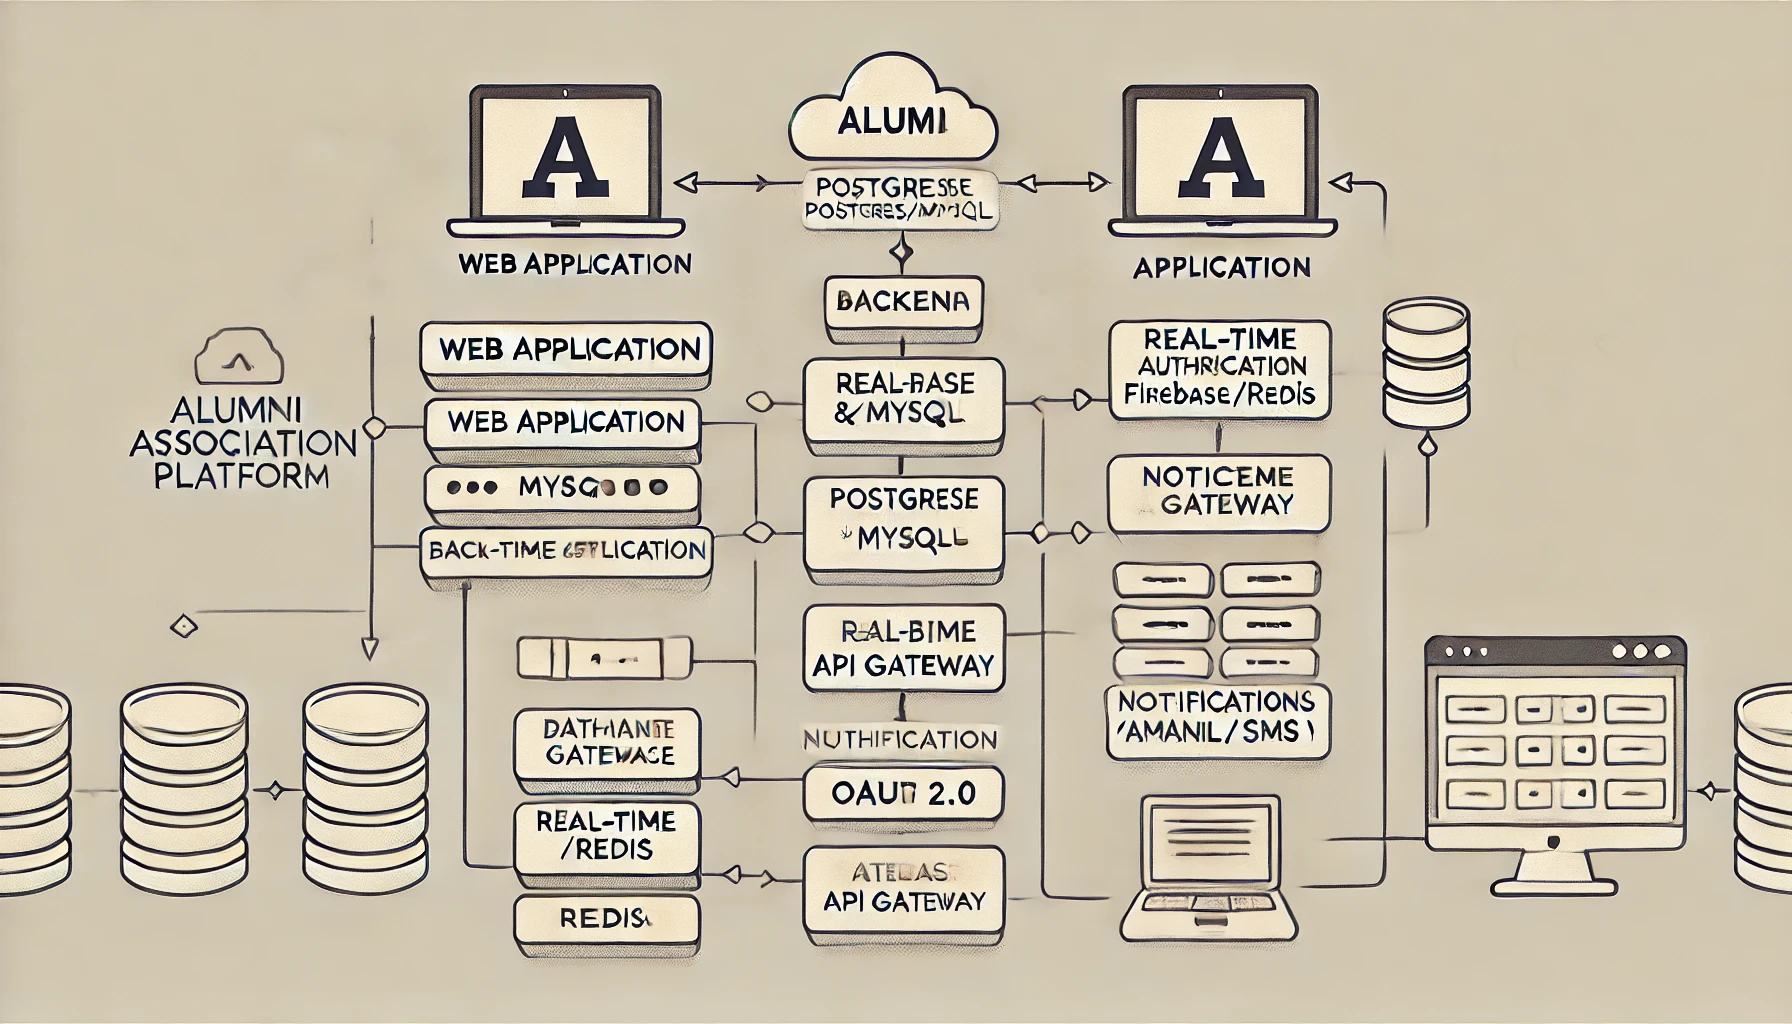
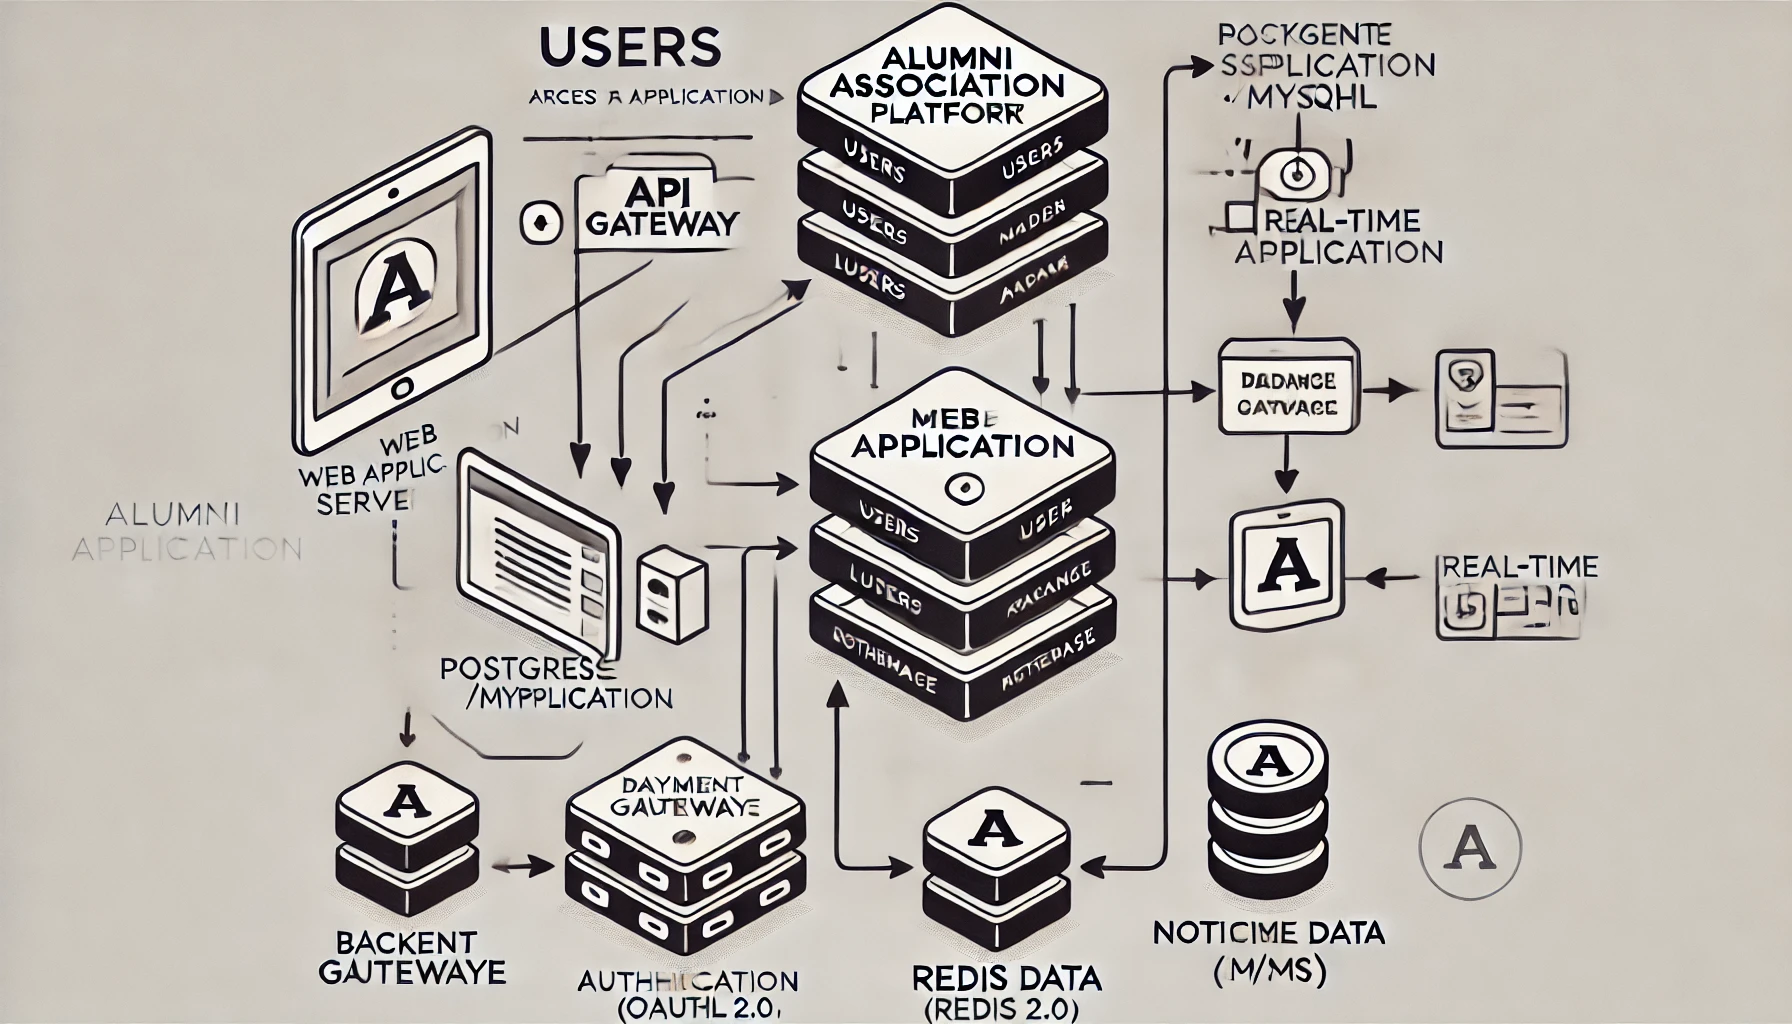
Success

diff --git a/README.md b/README.md
@@ -3,57 +3,90 @@
 ## Register Number: 24900596
 ## Name: Kishore B
 ## Problem Title
-Implementation of the Alumni Association platform for the University/Institute.
+Comprehensive Alumni Engagement Platform for Educational Institutions
 ## Problem Description
-Background: Alumni associations play a pivotal role in fostering lifelong connections between graduates and their alma mater, facilitating networking, mentorship, and philanthropic support. However, many alumni associations face challenges in maintaining engagement, facilitating donations, and providing valuable services such as job networking and tracking alumni success stories. A comprehensive Alumni Association platform for a University/Institute, encompassing both web and mobile applications, aims to address these challenges effectively. Detailed Description: The proposed Alumni Association platform for the Government Engineering College will feature robust functionalities accessible through both web and mobile applications: Alumni Registration: User-friendly registration processes on both web and mobile platforms, allowing alumni to join the association, update their profiles, and stay connected with peers and the institution. Donation Portal: Secure mechanisms on both platforms for alumni to contribute donations easily and support various initiatives and projects undertaken by the college, fostering a culture of philanthropy. Networking Hub: Dedicated sections on both platforms to connect alumni based on shared interests, professions, and geographic locations, facilitating professional networking, mentorship, and collaboration opportunities. Job Portal: Integrated job search and posting features accessible via web and mobile apps, enabling alumni to explore career opportunities, post job openings, and connect with potential employers within the alumni network. Alumni Directory: Search functionalities available on both platforms to find alumni based on different criteria such as graduation year, field of study, industry, location, etc., promoting networking and community building. Success Story Tracking: Features on both web and mobile apps to showcase and track alumni achievements, success stories, and notable contributions to society, inspiring current students and fostering pride among alumni. Events and Reunions: Announcements, registrations, and management tools available on both platforms for organizing alumni events, reunions, workshops, and professional development sessions to maintain engagement and connection. Feedback and Surveys: Channels on both web and mobile apps for alumni to provide feedback on their experiences, suggest improvements, and participate in surveys to help shape future initiatives of the association. The platform will prioritize user experience, security, and scalability across both web and mobile applications to cater to the diverse needs of the Government Engineering College's alumni community. Expected Solution: Implementation of the Alumni Association platform for the Government Engineering College, comprising both web and mobile applications, is expected to achieve several positive outcomes: Enhanced Alumni Engagement: Seamless access to networking, career opportunities, and alumni events through web and mobile apps will strengthen connections among alumni, fostering a vibrant and active community. Increased Philanthropic Support: Convenient donation processes accessible via both platforms will encourage alumni to contribute towards the college's growth and development initiatives. Career Advancement: Access to job postings, mentorship opportunities, and professional networking on mobile devices will support alumni in their career growth and advancement. Knowledge Sharing: Exchange of knowledge, experiences, and best practices facilitated through both web and mobile apps will enrich professional development and lifelong learning initiatives. Pride and Recognition: Highlighting alumni achievements and success stories on both platforms will instill pride in the alma mater and inspire current students to excel in their academic and professional pursuits. Community Building: Interactive features available on both web and mobile apps will nurture a sense of belonging and camaraderie among alumni, strengthening their bond with the institution. In summary, the Alumni Association platform for the University/Institute, integrated with both web and mobile applications, aims to create a dynamic and supportive ecosystem where alumni can connect, contribute, and thrive, thereby enriching the overall educational experience and legacy of the institution.
+Background:
+Alumni associations are a critical component of educational institutions, bridging the gap between alumni and their alma mater. These associations play a vital role in maintaining relationships, fostering professional networking, encouraging philanthropic contributions, and inspiring current students through alumni achievements. However, many institutions struggle to maintain consistent and meaningful engagement with their alumni due to outdated systems, limited resources, and lack of innovative platforms.
+
+Challenges Faced:
+1. Fragmented Communication: Many alumni lose touch with their institutions due to a lack of centralized and easily accessible platforms.
+2. Limited Networking Opportunities: Alumni struggle to connect with peers, mentors, and job opportunities that align with their interests or career goals.
+3. Inefficient Donation Systems: Without secure and transparent donation processes, alumni are hesitant to contribute to institutional growth.
+4. Poor Event Management: Organizing alumni reunions, webinars, or workshops becomes a logistical challenge without an integrated system for announcements, registrations, and feedback.
+5. Lack of Recognition: Success stories of alumni often go unnoticed, missing the opportunity to inspire current students and instill pride among graduates.
+6. Feedback Channels: Institutions struggle to gather insights and suggestions from their alumni for continuous improvement.
+
+Proposed Solution:
+The creation of a robust Alumni Association platform, accessible via both web and mobile applications, will address these challenges. The platform will:
+
+1. Provide easy and secure alumni registration and profile management.
+2. Facilitate networking with a directory, job board, and mentorship programs.
+3. Enable secure and transparent donation systems to support institutional initiatives.
+4. Showcase alumni achievements, promoting recognition and motivation.
+5. Manage events effectively with automated tools for planning, registration, and reminders.
+6. Incorporate feedback mechanisms for continuous development and engagement strategies.
+
+Impact:
+By addressing these challenges, the platform will:
+
+1. Strengthen alumni relationships and increase their participation in institutional growth.
+2. Enhance career opportunities for alumni through mentorship and job connections.
+3. Encourage a culture of giving back to the institution, driving financial support for various initiatives.
+4. Build a vibrant and engaged alumni community that contributes to the legacy and future success of the institution. 
 ## Problem Creater's Organization
-Government of Gujarat
+Ministry of Education, Government of India
 
 ## Idea
-To build a comprehensive Alumni Association platform that bridges the gap between alumni and their alma mater through seamless web and mobile solutions, fostering networking, philanthropy, career advancement, and community building.
+Create a dynamic and scalable Alumni Association platform that strengthens the bond between alumni and their alma mater. The platform will serve as a one-stop solution for networking, mentorship, donations, event participation, and showcasing alumni achievements through web and mobile applications.
 
 ## Proposed Solution / Architecture Diagram
 ![alt text](image.webp)
 
 Solution:
-1. Frontend: User-friendly interfaces for web (React.js/Angular) and mobile (Flutter/React Native).
-2. Backend: Centralized database and APIs built using Node.js/Python (Django/Flask) for handling alumni data, donations, job posts, and event      management.
-3. Cloud Hosting: Hosting on AWS/GCP for scalability and security.
-4. Database: PostgreSQL/MySQL for structured data and Firebase/Redis for real-time interactions.
-5. Security: Implementation of secure authentication (OAuth 2.0), data encryption (SSL/TLS), and regular audits.
+1. User-Friendly Interface: Accessible web and mobile apps with intuitive design for seamless interaction.
+2. Centralized Backend: A robust backend to manage user data, events, jobs, and donations securely.
+3. Key Features: Alumni registration, secure donation portal, job board, networking hub, event management, and success story highlights.
+4. Security: End-to-end encryption, secure authentication (OAuth 2.0), and GDPR compliance.
+
+Architecture Diagram:
+1. Frontend → Web (React.js) and Mobile (Flutter).
+2. API Gateway → Handles all requests and routes them to the backend.
+3. Backend → Built on Django/Node.js with a RESTful API.
+4. Database → PostgreSQL for structured data and Redis for real-time updates.
+5. Third-Party Integrations → Payment gateways, notification systems, and cloud hosting.
 
 ## Use Cases
 1. Alumni Registration:
-    Alumni sign up using verified credentials and update their profiles.
-2. Donation Portal:
-    Alumni make secure online donations to initiatives or events.
-3. Networking Hub:
-    Alumni search and connect based on location, profession, or interests.
-4. Job Portal:
-    Alumni post and browse job opportunities shared within the network.
-5. Event Management:
-    Organize and manage alumni reunions, professional workshops, or webinars.
-6. Success Story Showcase:
-    Display and highlight notable achievements of alumni.
+    Simplified sign-up and profile updates for alumni across web and mobile platforms.
+2. Donation Management:
+    Alumni can contribute to initiatives securely with options to track donation history.
+3. Networking Features:
+    Discover alumni based on shared interests, location, or profession.
+4. Job Opportunities:
+    Alumni can post and apply for jobs through a centralized portal.
+5. Event Participation:
+    Alumni register for events, receive reminders, and provide feedback.
+6. Highlighting Achievements:
+    Display notable alumni stories to inspire others and enhance institutional pride.
 
 
 ## Technology Stack
-1. Frontend:
-   1. Web: React.js/Angular
-   2. Mobile: Flutter/React Native
-2. Backend: Node.js/Django (RESTful APIs)
-3. Database: PostgreSQL/MySQL, Firebase (Real-time)
-4. Cloud Hosting: AWS/GCP
-5. Payment Integration: Razorpay/Stripe for secure donation handling
-6. Authentication: Firebase Auth/OAuth 2.0
-7. Version Control: GitHub/GitLab
+1. Frontend: React.js for web, Flutter for mobile.
+2. Backend: Node.js (Express) or Django for server-side logic.
+3. Database: PostgreSQL/MySQL for data storage; Firebase for real-time data sync.
+4. Hosting: AWS/GCP with scalable load balancing.
+5. Authentication: OAuth 2.0 and JWT for secure access.
+6. Payment Gateway: Razorpay, Stripe, or PayPal.
+7. Notification Services: Twilio for SMS, SendGrid for email notifications.
+
 
 ## Dependencies
-1. Third-Party APIs:
-    1. Payment Gateways (Razorpay, Stripe)
-   2. Email and SMS services for notifications.
-2. Hosting Providers: AWS/GCP for scalability.
+1. APIs and SDKs:
+   1. Payment gateway APIs for donation handling.
+   2. Firebase for real-time communication.
+2. Cloud Services: AWS or GCP for reliable hosting and scalability.
 3. Libraries:
-   1. Real-time Communication: Socket.io/GraphQL
-   2. UI Components: Material-UI/Bootstrap for web, Flutter widgets for mobile.
-4. Team Collaboration Tools: Jira/Slack for task management and communication.
+   1. Material-UI or Bootstrap for frontend styling.
+   2. Socket.io for real-time updates.
+4. Version Control: GitHub/GitLab for collaborative development.
+5. Third-Party Tools: Docker for containerization, Postman for API testing.
